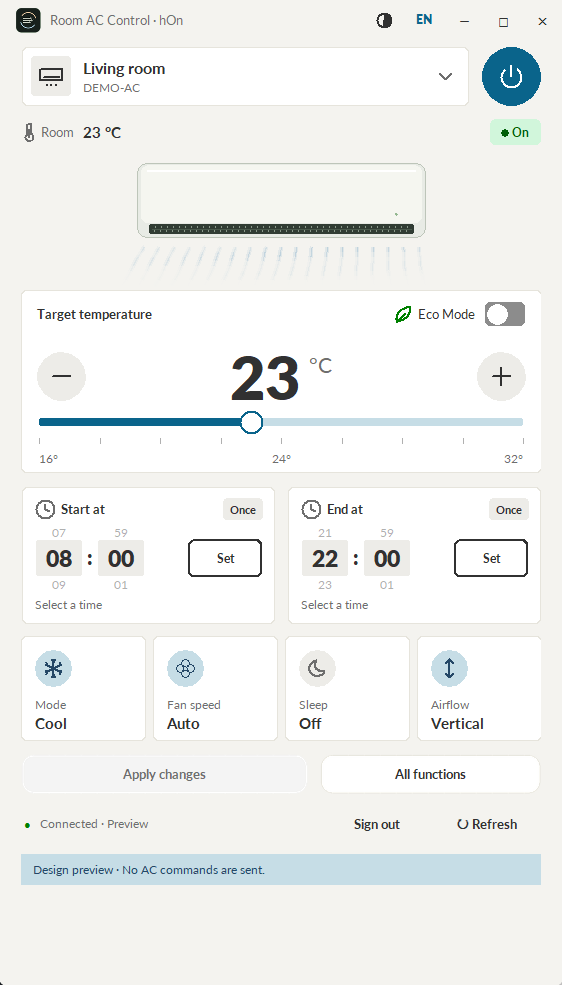
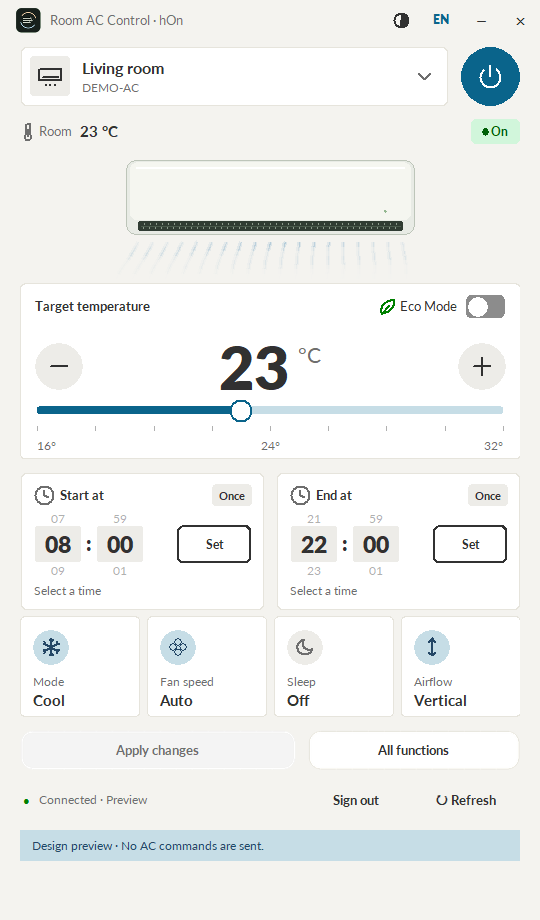
Open windows at their minimum size and keep them fixed (v0.1.17) (#21)
* Open windows at their minimum size and keep them fixed

The main window opens at 540x920 and All functions at 620x700; neither
can be resized or maximized, and the main title bar drops its maximize
button. The title bar nudges the requested size after removing the
native caption, so the client area is exact. Smoke tests check the fixed
sizes instead of resizing windows, and the user guide and README
screenshots match.

* Bump version to 0.1.17

Merging this publishes the fixed window size as release v0.1.17.

* Allow short screens in fixed window size smoke checks

Windows clamps the 920 px window on 1024x768 displays such as CI runners.

* Check short-screen window size against the 920 px design height

Windows lets a window run slightly past a short screen instead of clamping
it to the screen height. Report measured sizes when the check fails.

---------

diff --git a/tests/dashboard_layout_smoke.py b/tests/dashboard_layout_smoke.py
@@ -6,7 +6,7 @@ import sys
 import tkinter as tk
 
 sys.path.insert(0, str(Path(__file__).resolve().parents[1] / "src"))
-from room_ac_control.dashboard import App, WIDTH, TIMER_TOP, TILE_TOP
+from room_ac_control.dashboard import App, WIDTH, TIMER_TOP, TILE_TOP, WINDOW_SIZE
 from room_ac_control.demo import devices
 from room_ac_control.inline_timers import TimerCard
 
@@ -17,6 +17,7 @@ try:
     fixture = devices()[0]
     fixture["controls"].pop("ecoMode")
     app.connected([fixture])
+    for _ in range(20): root.update(); root.after(30)  # Let the fixed-size fit finish.
     requests = []
     for card in app.inline_timers.cards.values():
         card.changed = lambda action, due: requests.append((action, due))
@@ -24,9 +25,16 @@ try:
     for theme in ("light", "dark"):
         app.theme_preference = theme
         app.apply_theme()
-        for geometry in ("540x920", "560x960", "900x1100", "540x920"):
-            root.geometry(geometry)
+        if True:  # The window has one fixed size; check it in each theme.
             root.update()
+            assert root.resizable() == (False, False)
+            # Windows caps a window at about the screen height, so short screens
+            # (CI runners use 1024x768) cannot show the full 920 px.
+            size = (root.winfo_width(), root.winfo_height(), root.winfo_screenheight())
+            if root.winfo_screenheight() >= WINDOW_SIZE[1] + 80:
+                assert size[:2] == WINDOW_SIZE, size
+            else:
+                assert size[0] == WINDOW_SIZE[0] and size[1] <= WINDOW_SIZE[1], size
             scale = app.canvas.winfo_width() / WIDTH
             timers = app.inline_timers
             start, end = timers.cards["on"], timers.cards["off"]
@@ -70,6 +78,6 @@ try:
                 # The value stays centred between the − and + buttons.
                 assert number[0] > 64 * scale and unit[2] < 456 * scale
             assert app.status_label.winfo_y() + app.status_label.winfo_height() <= app.body.winfo_height()
-    print("Light/dark minimum, default and wide layouts, timer bounds and clicks, active Stop and temperature centring passed offline.")
+    print("Light/dark fixed-size layout, timer bounds and clicks, active Stop and temperature centring passed offline.")
 finally:
     app.close()

diff --git a/src/room_ac_control/dashboard.py b/src/room_ac_control/dashboard.py
@@ -30,6 +30,8 @@ TIMER_TOP = 368
 TILE_TOP = TIMER_TOP + TimerCard.HEIGHT + 12
 TILE_HEIGHT = 104
 CANVAS_HEIGHT = TILE_TOP + TILE_HEIGHT + 2
+# The window opens at its minimum size and stays fixed; the layout is designed for it.
+WINDOW_SIZE = (540, 920)
 THEME_CHOICES = [
     {"label": "Follow Windows", "value": "system", "glyph": "monitor", "description": "Match the Windows app mode"},
     {"label": "Light mode", "value": "light", "glyph": "sun", "description": "Sand and white surfaces"},
@@ -79,12 +81,12 @@ class App:
         self.app_icon = tk.PhotoImage(master=root, file=str(ASSETS / "app-icon.png"))
         root.iconphoto(True, self.app_icon)
         localized_title(root,"Room AC Control for hOn" + (" · Design preview" if demo else ""))
-        root.geometry("560x960")
-        root.minsize(540, 920)
+        root.geometry("{}x{}".format(*WINDOW_SIZE))
+        root.resizable(False, False)
         paint(root, bg="BG")
         configure_styles(root)
         from .window_header import WindowHeader, HeaderIconButton
-        self.header = WindowHeader(root, "Room AC Control · hOn", self.close, self.minimize_window)
+        self.header = WindowHeader(root, "Room AC Control · hOn", self.close, self.minimize_window, maximize=False, size=WINDOW_SIZE)
         self.language_code = tk.StringVar(root, value="PT" if self.i18n.language == "pt-PT" else "EN")
         self.language_button = tk.Button(self.header.frame,textvariable=self.language_code,command=self.language_menu,
                                         relief="flat",bd=0,font=font(9,"black"),padx=10,cursor="hand2")
@@ -95,8 +97,7 @@ class App:
         self.content = ttk.Frame(root)
         self.content.pack(fill="both",expand=True)
         self.body = ttk.Frame(self.content, padding=(20,6,20,16))
-        self.body.place(relx=.5,y=0,anchor="n",relheight=1,width=560)
-        self.content.bind("<Configure>",lambda event:self.body.place_configure(width=min(560,event.width)))
+        self.body.pack(fill="both",expand=True)
         from .login_view import LoginView
         self.login_view = LoginView(self)
         self.login_frame = self.login_view.frame

diff --git a/tests/window_header_smoke.py b/tests/window_header_smoke.py
@@ -12,11 +12,11 @@ from tests.ui_smoke import demo_device
 root = tk.Tk()
 app = App(root, demo=True, enable_tray=False,language="en")
 root.title("Room AC Control · Drag regression test")
-root.update()
+for _ in range(20): root.update(); root.after(30)  # Let the fixed-size fit finish.
 native = app.header.native
 style = native.get_style(native.hwnd, -16)
 assert not style & native.CAPTION
-assert style & 0x00040000  # resize frame
+assert root.resizable() == (False, False)  # Fixed at the minimum size
 assert style & 0x00080000  # system menu / taskbar commands
 app.connected([demo_device()])
 root.update()
@@ -39,14 +39,15 @@ for frame in range(24):
     assert not native.get_style(native.hwnd,-16) & native.CAPTION
     app.header.drag(SimpleNamespace(x_root=rect.left+200,y_root=rect.top+25))
 app.header.end_drag()
-app.header.max_button.invoke()
-root.update()
-assert root.state() == "zoomed"
-assert app.body.winfo_width() == 560
-assert app.canvas.winfo_width() <= 520
-app.header.max_button.invoke()
-root.update()
-assert root.state() == "normal"
+assert app.header.max_button is None  # No maximize: the layout is designed for one size.
+# Windows caps a window at about the screen height, so short screens
+# (CI runners use 1024x768) cannot show the full 920 px.
+size = (root.winfo_width(), root.winfo_height(), root.winfo_screenheight())
+if root.winfo_screenheight() >= 1000:
+    assert size[:2] == (540, 920), size
+else:
+    assert size[0] == 540 and size[1] <= 920, size
+assert app.body.winfo_width() == 540 and app.canvas.winfo_width() == 500
 app.open_functions()
 root.update()
 view = app.functions_view
@@ -66,4 +67,4 @@ if "--preview" in sys.argv:
 else:
     app.header.close_button.invoke()
 assert app.closing
-print("Fast-drag frame stability, integrated headers, maximize/restore, centered content and dialog close passed.")
+print("Fast-drag frame stability, integrated headers, fixed window size, centered content and dialog close passed.")

diff --git a/src/room_ac_control/window_header.py b/src/room_ac_control/window_header.py
@@ -81,8 +81,9 @@ class WindowsFrame:
         self.user.RedrawWindow(self.hwnd, None, None, 0x0001 | 0x0004 | 0x0080 | 0x0400)
 
 class WindowHeader:
-    def __init__(self, window, title, close, minimize=None, maximize=True):
+    def __init__(self, window, title, close, minimize=None, maximize=True, size=None):
         self.window = window
+        self.size = size
         self.drag_origin = None
         self.drag_pending = None
         self.drag_job = None
@@ -126,6 +127,23 @@ class WindowHeader:
     def apply_frame(self):
         if self.window.winfo_exists() and self.native:
             self.native.apply()
+            if self.size:
+                self.window.after(50, lambda: self.fit(self.size, 5))
+
+    def fit(self, request, attempts):
+        """Keep a fixed-size window's client area exact after the caption is removed.
+
+        Tk still adds its own frame allowance to requested sizes, so nudge the
+        request by the measured error until the client matches."""
+        if not self.window.winfo_exists():
+            return
+        width, height = self.size
+        error = (self.window.winfo_width()-width, self.window.winfo_height()-height)
+        if error == (0, 0) or attempts == 0:
+            return
+        request = (request[0]-error[0], request[1]-error[1])
+        self.window.geometry(f"{request[0]}x{request[1]}")
+        self.window.after(50, lambda: self.fit(request, attempts-1))
 
     def mapped(self, event):
         if event.widget is self.window:

diff --git a/tests/functions_scroll_smoke.py b/tests/functions_scroll_smoke.py
@@ -24,8 +24,9 @@ try:
     app.connected([snapshot])
     app.open_functions()
     view = app.functions_view
-    view.window.geometry("740x760")  # The compact header leaves more room for cards.
-    root.update()
+    for _ in range(20): root.update(); root.after(30)  # Let the fixed-size fit finish.
+    assert view.window.resizable() == (False, False)
+    assert (view.window.winfo_width(), view.window.winfo_height()) == (620, 700)
 
     def wheel(widget, delta=-120):
         widget.event_generate("<MouseWheel>", delta=delta)
@@ -76,12 +77,6 @@ try:
     view.search.set("")
     root.update()
     assert view.scrollable
-    view.window.geometry("740x1450")
-    root.update()
-    assert not view.scrollable and view.scroll.yview() == (0, 1)
-    view.window.geometry("740x700")
-    root.update()
-    assert view.scrollable
 
     # Nested preset labels scroll the pane; numeric inputs keep their own behavior.
     preset = {"kind": "function", "command": "startProgram", "label": "Offline preset",
@@ -106,6 +101,6 @@ try:
     root.update()
     wheel(view.inner)
     assert view.scroll.yview()[0] > 0
-    print("Blank-space wheel routing, content-fit limits, search, resizing and preset input isolation passed offline.")
+    print("Blank-space wheel routing, content-fit limits, search, fixed window size and preset input isolation passed offline.")
 finally:
     app.close()

diff --git a/src/room_ac_control/functions_view.py b/src/room_ac_control/functions_view.py
@@ -73,14 +73,15 @@ class FunctionsView:
         app.dialog = self.window
         app.dialog_view = self
         localized_title(self.window,"Room AC Control · All functions")
-        self.window.geometry("740x820")
-        self.window.minsize(620, 700)
+        # Fixed at the minimum size; cards scroll when a section needs more room.
+        self.window.geometry("620x700")
+        self.window.resizable(False, False)
         paint(self.window, bg="BG")
         self.window.transient(app.root)
         self.window.grab_set()
         self.window.protocol("WM_DELETE_WINDOW", self.close)
         from .window_header import WindowHeader
-        self.header = WindowHeader(self.window, "Room AC Control · All functions", self.close, maximize=False)
+        self.header = WindowHeader(self.window, "Room AC Control · All functions", self.close, maximize=False, size=(620, 700))
         self.photo = unit_photo(self.window, 230)
         self.section = "settings"
         self.settings_changes = dict(app.dirty)
@@ -401,6 +402,7 @@ class FunctionsView:
         window = tk.Toplevel(self.window)
         localized_title(window,spec["label"])
         paint(window, bg="BG")
+        window.resizable(False, False)
         window.transient(self.window)
         window.grab_set()
         def close_detail():

diff --git a/tests/i18n_smoke.py b/tests/i18n_smoke.py
@@ -47,7 +47,6 @@ try:
     assert app.temp.get()=="26.5" and app.mode.get()=="Cool"
     assert app.canvas.itemcget(app.canvas.find_withtag("target-temperature")[0],"text")=="26,5"
     assert app.apply_button.cget("text")=="Aplicar alterações (1)"  # One staged change is counted.
-    root.geometry("540x920")
     app.staged("silentSleepStatus","1")
     root.update()
     texts={app.canvas.itemcget(item,"text"):item for item in app.canvas.find_all() if app.canvas.type(item)=="text"}

diff --git a/src/room_ac_control/__init__.py b/src/room_ac_control/__init__.py
@@ -1,2 +1,2 @@
 """Room AC Control: a community hOn controller for Windows."""
-__version__ = "0.1.16"
+__version__ = "0.1.17"

diff --git a/README.md b/README.md
@@ -76,11 +76,11 @@ Runtime builds, local environments, shortcuts and account files are excluded fro
 .\tools\Build.ps1
 ```
 
-The preview uses fictional rooms and does not load saved credentials. Use `--preview login` to review the welcome screen. Add `--language pt-PT` or `--language en`, or `--theme light` or `--theme dark`, to preview a specific language or appearance without changing your saved preferences. `tools/Build.ps1` produces `releases/Room-AC-Control-for-hOn-0.1.16-Windows-x64.zip` and a local app-icon shortcut. The build checks bundled assets, Windows encryption, tray imports and MQTT libraries without contacting an account.
+The preview uses fictional rooms and does not load saved credentials. Use `--preview login` to review the welcome screen. Add `--language pt-PT` or `--language en`, or `--theme light` or `--theme dark`, to preview a specific language or appearance without changing your saved preferences. `tools/Build.ps1` produces `releases/Room-AC-Control-for-hOn-0.1.17-Windows-x64.zip` and a local app-icon shortcut. The build checks bundled assets, Windows encryption, tray imports and MQTT libraries without contacting an account.
 
 Setup and build install full hash-verified Windows dependency locks. `Setup.ps1` prepares source execution; `Build.ps1` produces the portable executable. See [build verification](docs/BUILD_VERIFICATION.md) for checksums, source manifests, optional signing and CI attestations. Binaries remain unsigned until a valid signing certificate is supplied.
 
-Windows UI checks: `tests/ui_smoke.py`, `tests/refresh_smoke.py`, `tests/desktop_smoke.py`, `tests/timer_smoke.py` (also run by ui_smoke), and `tests/window_header_smoke.py`. Active CI in `.github/workflows/windows.yml` pins actions to immutable commits, runs offline checks, and builds a portable Windows artifact for pull requests and pushes to main. Merging a PR that bumps the app version automatically builds, attests and publishes the release (for example `v0.1.16`); merges that keep the current version only build.
+Windows UI checks: `tests/ui_smoke.py`, `tests/refresh_smoke.py`, `tests/desktop_smoke.py`, `tests/timer_smoke.py` (also run by ui_smoke), and `tests/window_header_smoke.py`. Active CI in `.github/workflows/windows.yml` pins actions to immutable commits, runs offline checks, and builds a portable Windows artifact for pull requests and pushes to main. Merging a PR that bumps the app version automatically builds, attests and publishes the release (for example `v0.1.17`); merges that keep the current version only build.
 
 See [Contributing](CONTRIBUTING.md) and the [user guide](docs/USER_GUIDE.md) for more detail.
 

diff --git a/docs/USER_GUIDE.md b/docs/USER_GUIDE.md
@@ -62,9 +62,9 @@ Status updates through Cloud notifications with a check every 15 seconds as a ba
 
 After an accepted settings command, **Awaiting confirmation** keeps the values you sent visible while the cloud still reports older values. These are separate from unsent changes and are not automatically resent. Matching reports confirm them; after 60 seconds without confirmation, the next successful refresh shows the reported values with a warning. The power indicator and airflow animation continue to follow reported operation.
 
-Drag the integrated header to move the window, double-click to maximize/restore, or use its window controls. Minimize moves the app to the Windows notification area. Double-click the tray icon or choose **Open Room AC Control** to restore. **Exit** or the window's close button quits without turning the AC off.
+Drag the integrated header to move the window, or use its minimize and close controls. Minimize moves the app to the Windows notification area. Double-click the tray icon or choose **Open Room AC Control** to restore. **Exit** or the window's close button quits without turning the AC off.
 
-The dashboard stays centred when resized. At its minimum size, timer cards and action buttons remain aligned, and timer controls retain their full height.
+The main window and All functions open at a fixed size designed for their layout, so they cannot be resized or maximized. All functions scrolls when a section has more cards than fit.
 
 ## Sign out and privacy
 
